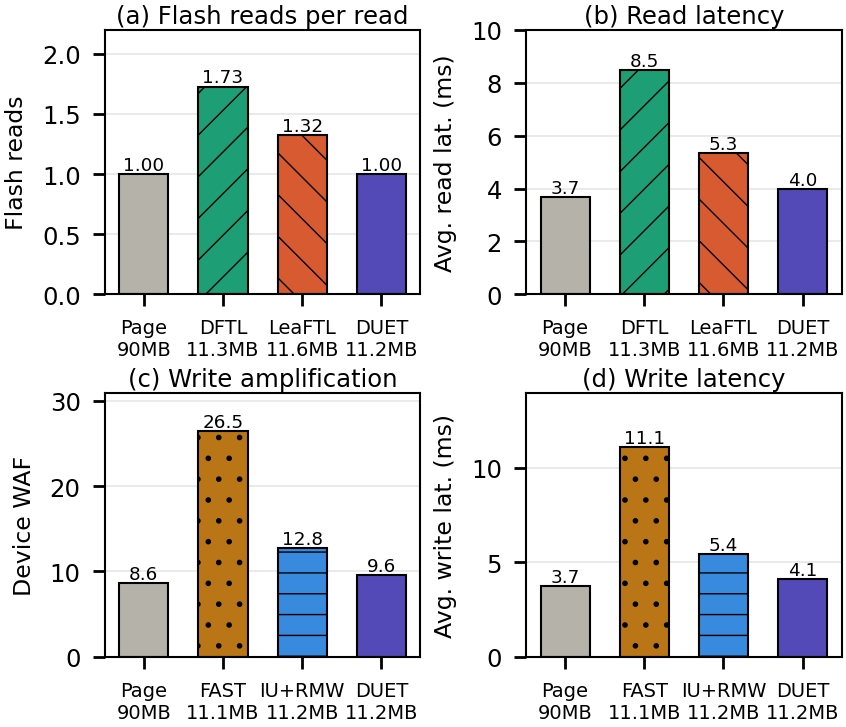
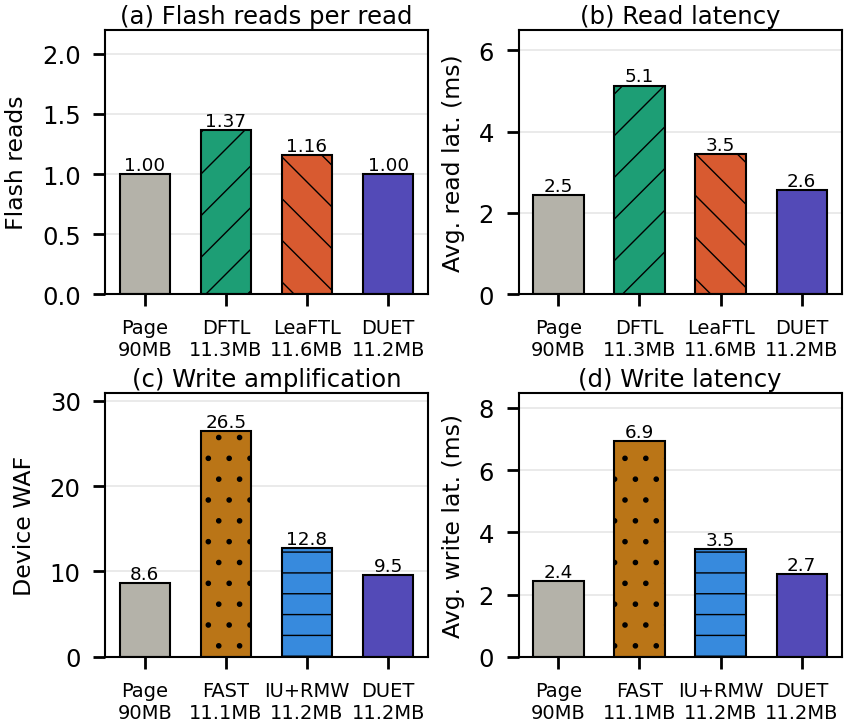
Motivation: R70 / 4K:128K = 70:30 raw I/O

diff --git a/paper/sections/background.tex b/paper/sections/background.tex
@@ -1,5 +1,5 @@
 % DUET -- Background and Motivation (DAC 2027 draft, 2026-10-21)
-% Numbers: raw I/O = 128K-aligned uniform random replay at QD32 (results/final_rp_a128), 1/8 mapping DRAM, OP 7%.
+% Numbers: raw I/O R70, 4K:128K=70:30, 128K-aligned uniform random replay at QD32 (results/final_rp_a128/replay_a128_r70_s70), 1/8 DRAM, OP 7%.
 % Figure: results/paper_dac/fig_motiv.pdf (tools/plot_motiv.py).
 
 \section{Background and Motivation}
@@ -58,20 +58,20 @@ amplification by up to the IU size over the write size. In our evaluation the
 Figure~\ref{fig:motiv} compares the three approaches with a page-level FTL
 that keeps its whole table in DRAM. All FTLs run in NVMeVirt~\cite{nvmevirt}
 with the same NAND timing and the same 1/8 mapping-DRAM budget. The workload is
-uniform random I/O over the whole device at 50\% reads; 70\% of the requests are
+uniform random I/O over the whole device at 70\% reads; 70\% of the requests are
 4\,KiB and the rest 128\,KiB, each aligned to its own size (QD32).
 
 \textbf{On-demand mapping slows reads.}
-With mapping misses, DFTL needs 1.73 flash reads per host read and LeaFTL 1.32
+With mapping misses, DFTL needs 1.37 flash reads per host read and LeaFTL 1.16
 (Figure~\ref{fig:motiv}a; LeaFTL's misprediction reads are not counted, so its
-value is a lower bound). Their average read latency is 2.3$\times$ and
+value is a lower bound). Their average read latency is 2.1$\times$ and
 1.4$\times$ that of the page-level FTL (Figure~\ref{fig:motiv}b), although the
 flash itself is the same.
 
 \textbf{Hybrid mapping and large IUs slow writes.}
 FAST's block merges raise WAF from 8.6 to 26.5 (Figure~\ref{fig:motiv}c) and
-stall writes, so its average write latency is 3.0$\times$ that of the page-level
-FTL (Figure~\ref{fig:motiv}d) and it delivers only 34\% of the page-level
+stall writes, so its average write latency is 2.8$\times$ that of the page-level
+FTL (Figure~\ref{fig:motiv}d) and it delivers only 37\% of the page-level
 throughput. The large IU avoids merges, but every 4\,KiB write becomes an RMW of
 its 32\,KiB unit: WAF reaches 12.8 (1.5$\times$) and write latency grows by 1.4$\times$.
 
@@ -91,7 +91,7 @@ whose mapping is elastic.
   \includegraphics[width=\columnwidth]{figs/fig_motiv.pdf}
   \vspace{-6mm}
   \caption{Cost of existing FTLs under a 1/8 mapping-DRAM budget (uniform random,
-  50\% reads, 70\% 4\,KiB / 30\% 128\,KiB size-aligned requests, QD32). (a)--(b)
+  70\% reads, 70\% 4\,KiB / 30\% 128\,KiB size-aligned requests, QD32). (a)--(b)
   On-demand mapping; (c)--(d) block-level hybrid (FAST) and a 32\,KiB IU with RMW.
   Latencies are averages. Labels give each FTL's mapping DRAM. Page: page-level
   FTL with the full table in DRAM; DUET (Section~\ref{sec:design}) shown for reference.}

diff --git a/tools/plot_motiv.py b/tools/plot_motiv.py
@@ -1,5 +1,5 @@
 #!/usr/bin/env python3
-"""DAC Motivation figure (x labels carry each FTL's mapping DRAM in MiB; DUET included for reference) (results/paper_dac/fig_motiv.{pdf,png}): raw I/O R50 / 4K-heavy only (128K-aligned uniform random,
+"""DAC Motivation figure (x labels carry each FTL's mapping DRAM in MiB; DUET included for reference) (results/paper_dac/fig_motiv.{pdf,png}): raw I/O, one config (MOTIV_CFG, default r70_s70 = 70% reads, 4K:128K = 70:30; 128K-aligned uniform random,
 70% of requests 4 KiB, 50% reads, QD32 replay; results/final_rp_a128), 1/8 mapping DRAM, OP 7%. Single-column 2x2:
  (a) flash reads per host read page = 1 + mapping-page reads per host read (LeaFTL misprediction reads not counted);
  (b) average read latency, (c) device WAF, (d) average write latency.
@@ -11,7 +11,9 @@ matplotlib.use('Agg')
 import matplotlib.pyplot as plt
 
 B = '/home/sejun000/dual_mapping/results'
-D = B + '/final_rp_a128/replay_a128_r50_s70'
+import os
+CFG = os.environ.get('MOTIV_CFG', 'r70_s70')
+D = B + '/final_rp_a128/replay_a128_' + CFG
 OUT = B + '/paper_dac'
 LABEL = {'page4k': 'Page', 'dftl': 'DFTL', 'leaftl': 'LeaFTL', 'fast': 'FAST', 'iurmw': 'IU+RMW', 'proposed': 'DUET'}
 COLOR = {'page4k': '#B4B2A9', 'dftl': '#1D9E75', 'leaftl': '#D85A30', 'fast': '#BA7517', 'iurmw': '#378ADD', 'proposed': '#534AB7'}
@@ -54,10 +56,10 @@ def main():
     axs[0][0].set_ylim(0, 2.2)
     panel(axs[0][1], od, [s[p]['r_avg'] for p in od], ylabel='Avg. read lat. (ms)',
           title='(b) Read latency', fmt='{:.1f}', mem=mem)
-    axs[0][1].set_ylim(0, 10)
+    axs[0][1].set_ylim(0, 6.5)
     panel(axs[1][1], hy, [s[p]['w_avg'] for p in hy], ylabel='Avg. write lat. (ms)',
           title='(d) Write latency', fmt='{:.1f}', mem=mem)
-    axs[1][1].set_ylim(0, 14)
+    axs[1][1].set_ylim(0, 8.5)
     panel(axs[1][0], hy, [s[p]['waf'] for p in hy], ylabel='Device WAF', title='(c) Write amplification', fmt='{:.1f}', mem=mem)
     axs[1][0].set_ylim(0, 31)
     fig.tight_layout(pad=0.3, h_pad=0.6, w_pad=0.6)
